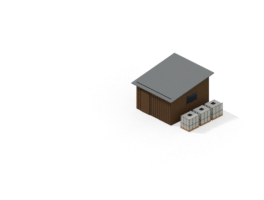
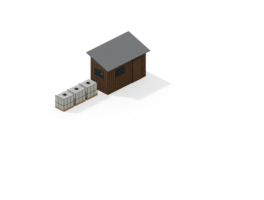
Pole: bouda vedle cesty na trave, cesta volna pro auta; V3S v17 fotka sedi/stoji
Hrac: bouda stala v ceste, kudy pojedou auta. Kulna (uzsi, 4,4 x 2 m)
a nadrze stoji na trave u severozapadniho okraje pate dlazdice cesty,
ujeta cesta a oba pruhy jsou volne. Novy obrazek bouda 4x i 8x,
nahledy, README a vzkaz pro hru. V3S v17: kontrolni fotka plnych aut,
za jizdy studentky sedi, pri nakladani stoji.

Claude-Session: https://claude.ai/code/session_01P6zYdmMEQjTTZJyV6Qb8Ch

Changed region(s): [[0.1818, 0.15, 0.8485, 0.66]]

diff --git a/pole/render_dlazdice.py b/pole/render_dlazdice.py
@@ -10,7 +10,8 @@
 # - zaklady (neprusvitne presne v kosoctverci policka): pole marihuany (zem se zahony), pole brambor (hrebeny), cesta
 #   (trava a polni cesta podel x);
 # - prikladaci vrstvy (jinde pruhledne, nic nepresahuje pod predni hrany policka, jen nahoru): bouda (kulna a nadrze na
-#   konci cesty), male a vzrostle kytky (i se stinem na zem), holky u okraju cesty.
+#   konci cesty vedle ni, na trave u severozapadniho okraje), male a vzrostle kytky (i se stinem na zem), holky u okraju
+#   cesty.
 # Cesta prostredkem pole (hrac: "takhle bude cesta prostredkem pole, vzor je overlaping titles z toho grf", "normalne tam
 # bude tvoje nynejsi cesta a pod ni postavim silnici pro auta, proto potrebuju aby ta cesta v marihuanovy plantazi byla
 # overlaping, ze tam je obrazek ale muzu pod obrazkem stavet"): obrazek cesty je plny, ve hre se kresli jako prekryvajici
@@ -181,28 +182,36 @@ if POLE == "marihuana":
         for k in (-0.75, 0.75):
             kvadr("cesta", M["kolej"], OD, DO, pr + k - 0.24, pr + k + 0.24, 0.0, 0.013)
     kvadr("cesta", M["trava"], OD, DO, YT - 0.6, YT + 0.6, 0.0, 0.02)
-    # bouda na konci cesty (severovychodni konec dlazdice, x maly), napric cestou, dvere k jihozapadu na cestu, okno
-    # k jihovychodu, jako kulna na stare plantazi: drevena, pultova plechova strecha; vedle tri IBC nadrze na vodu.
-    # Do pulky dlazdice (x do 7,4) nesaha: na slepem konci silnice auta otaci uprostred dlazdice.
-    KX0, KX1, KY0, KY1 = 0.5, 4.9, YT - 2.0, YT + 2.0
-    ZK, ZK1 = 2.5, 3.1
+    # bouda na konci cesty, vedle ni (hrac 3. 10.: "postavil jsi boudu do cesty na marihuanovy plantazi : ) tam budou
+    # jezdit auta prece"): stoji na trave u severozapadniho okraje dlazdice (y do 2,5 m, cesta zacina na 2,52 m)
+    # u severovychodniho konce (x maly), ujeta cesta i oba pruhy aut zustavaji volne. Drevena kulna s pultovou
+    # plechovou strechou spadajici k ceste, dvere a okno na cestu (k jihovychodu), okno k jihozapadu; vedle ni
+    # k jihozapadu tri IBC nadrze na vodu, take na trave. Severozapadni strana je za auty, auta ji ve hre prekresli
+    # spravne (prekryvajici obrazek se kresli pod auty).
+    KX0, KX1, KY0, KY1 = 0.6, 5.0, 0.2, 2.2
+    ZK, ZK1 = 2.5, 3.1                             # stena u cesty a vzadu
     kvadr("bouda", M["prkna"], KX0, KX1, KY0, KY1, 0.0, ZK)
-    mnohostena("bouda", M["prkna"], [(KX0, KY0, ZK), (KX1, KY0, ZK), (KX1, KY1, ZK), (KX0, KY1, ZK), (KX0, KY0, ZK1), (KX0, KY1, ZK1)],
-               [(0, 1, 2, 3), (0, 4, 1), (3, 2, 5), (0, 3, 5, 4)])
-    O = 0.3
-    mnohostena("bouda", M["plech"], [(KX0 - O, KY0 - O, ZK1 + 0.08), (KX0 - O, KY1 + O, ZK1 + 0.08), (KX1 + O, KY1 + O, ZK - 0.12),
-                                     (KX1 + O, KY0 - O, ZK - 0.12), (KX0 - O, KY0 - O, ZK1 + 0.14), (KX0 - O, KY1 + O, ZK1 + 0.14),
-                                     (KX1 + O, KY1 + O, ZK - 0.06), (KX1 + O, KY0 - O, ZK - 0.06)],
+    mnohostena("bouda", M["prkna"], [(KX0, KY0, ZK), (KX1, KY0, ZK), (KX1, KY1, ZK), (KX0, KY1, ZK), (KX0, KY0, ZK1), (KX1, KY0, ZK1)],
+               [(0, 1, 2, 3), (0, 4, 5, 1), (3, 2, 5, 4), (0, 3, 4), (1, 5, 2)])
+    O = 0.25
+    mnohostena("bouda", M["plech"], [(KX0 - O, KY0 - O, ZK1 + 0.08), (KX1 + O, KY0 - O, ZK1 + 0.08), (KX1 + O, KY1 + O, ZK - 0.12),
+                                     (KX0 - O, KY1 + O, ZK - 0.12), (KX0 - O, KY0 - O, ZK1 + 0.14), (KX1 + O, KY0 - O, ZK1 + 0.14),
+                                     (KX1 + O, KY1 + O, ZK - 0.06), (KX0 - O, KY1 + O, ZK - 0.06)],
                [(0, 3, 2, 1), (4, 5, 6, 7), (0, 1, 5, 4), (1, 2, 6, 5), (2, 3, 7, 6), (3, 0, 4, 7)])
-    for k in range(int((KY1 - KY0) / 0.22)):
+    for k in range(int((KX1 - KX0) / 0.22)):      # spary prken na stene u cesty
+        x = KX0 + 0.22 * (k + 1)
+        kvadr("bouda", M["tmava"], x - 0.012, x + 0.012, KY1, KY1 + 0.012, 0.05, ZK - 0.05)
+    for k in range(int((KY1 - KY0) / 0.22)):      # a na jihozapadni stene
         y = KY0 + 0.22 * (k + 1)
         kvadr("bouda", M["tmava"], KX1, KX1 + 0.012, y - 0.012, y + 0.012, 0.05, ZK - 0.05)
-    kvadr("bouda", M["tmava"], KX1, KX1 + 0.02, KY0 + 0.5, KY0 + 1.6, 0.0, 2.1)
-    kvadr("bouda", M["prkna"], KX1 + 0.02, KX1 + 0.05, KY0 + 0.55, KY0 + 1.55, 0.02, 2.05)
-    kvadr("bouda", M["sklo"], KX0 + 1.4, KX0 + 2.6, KY1, KY1 + 0.02, 1.3, 2.0)
-    kvadr("bouda", M["prkna"], KX0 + 1.35, KX0 + 2.65, KY1, KY1 + 0.05, 1.25, 1.3)
+    kvadr("bouda", M["tmava"], KX0 + 0.5, KX0 + 1.6, KY1, KY1 + 0.02, 0.0, 2.1)            # dvere na cestu
+    kvadr("bouda", M["prkna"], KX0 + 0.55, KX0 + 1.55, KY1 + 0.02, KY1 + 0.05, 0.02, 2.05)
+    kvadr("bouda", M["sklo"], KX0 + 2.5, KX0 + 3.5, KY1, KY1 + 0.02, 1.3, 2.0)              # okno na cestu
+    kvadr("bouda", M["prkna"], KX0 + 2.45, KX0 + 3.55, KY1, KY1 + 0.05, 1.25, 1.3)
+    kvadr("bouda", M["sklo"], KX1, KX1 + 0.02, KY0 + 0.5, KY0 + 1.5, 1.3, 2.0)              # okno k jihozapadu
+    kvadr("bouda", M["prkna"], KX1, KX1 + 0.05, KY0 + 0.45, KY0 + 1.55, 1.25, 1.3)
     for i in range(3):
-        nx0, ny0 = 0.7 + 1.35 * i, KY1 + 0.8
+        nx0, ny0 = KX1 + 0.6 + 1.35 * i, 0.6
         kvadr("bouda", M["paleta"], nx0, nx0 + 1.2, ny0, ny0 + 1.0, 0.0, 0.15)
         kvadr("bouda", M["nadrz"], nx0 + 0.05, nx0 + 1.15, ny0 + 0.05, ny0 + 0.95, 0.15, 1.15)
         for t in (0.0, 0.33, 0.66, 1.0):
@@ -304,7 +313,8 @@ if POLE == "marihuana":
         PO.postav(meshe, Matrix.Translation(B(gx, gy, gz)) @ Matrix.Rotation(uhel, 4, 'Z') @ Matrix.Scale(K, 4))
         for o in meshe: do_skupiny(sk, o)
     # u okraju dlazdice cesty: u severozapadniho okraje (y maly) a u jihovychodniho (y velky), kazda strana zvlast;
-    # stoji na trave u kraje (cesta od 2,5 m); u jihovychodniho jen za boudou a nadrzemi (x > 8)
+    # stoji na trave u kraje (cesta od 2,5 m). Na dlazdici s boudou jen jihovychodni (bouda a nadrze stoji na trave
+    # u severozapadniho okraje)
     do_sceny(PO.nacti_stojici("galaxia_anime_girl", 1.58, "ruce_dolu"), 4.2, 1.6, 0.0, math.radians(60), "holky_sz")
     do_sceny(PO.nacti_stojici("college_girl", 1.62, "ruce_dolu"), 10.4, 1.9, 0.0, math.radians(40), "holky_sz")
     do_sceny(PO.nacti_stojici("character_people_girl_001", 1.68), 9.2, T - 1.7, 0.0, math.radians(15), "holky_jv")
@@ -409,12 +419,12 @@ def chci(jm):
 if POLE == "marihuana":
     if chci("mari_zaklad"): zaklad("mari_zaklad", "mari_zaklad", "pole marihuany bez kytek: zem, 4 zahony podel x")
     if chci("cesta"): zaklad("cesta", "cesta", "polni cesta podel x s travou kolem; ve hre prekryvajici obrazek, pod nim silnice")
-    if chci("bouda"): vrstva_se_stinem("cesta", "bouda", [], "bouda", "kulna a tri nadrze na konci cesty, na policko cesty")
+    if chci("bouda"): vrstva_se_stinem("cesta", "bouda", [], "bouda", "kulna a tri nadrze na konci cesty vedle ni, na trave u severozapadniho okraje dlazdice cesty; cesta volna")
     if chci("mari_male"):
         vrstva_se_stinem("mari_zaklad", "mari_male", ["mari_male_sousede"], "mari_male", "male kytky (mlade rostliny 1,5 az 2,2 m)")
     if chci("mari_vzrostle"):
         vrstva_se_stinem("mari_zaklad", "mari_vzrostle", ["mari_vzrostle_sousede"], "mari_vzrostle", "vzrostle smrcky 3,8 az 5 m")
-    if chci("holky_sz"): vrstva_holek("cesta", "holky_sz", [], "holky_sz", "dve holky u severozapadniho okraje cesty")
+    if chci("holky_sz"): vrstva_holek("cesta", "holky_sz", [], "holky_sz", "dve holky u severozapadniho okraje cesty (ne na dlazdici s boudou)")
     if chci("holky_jv"): vrstva_holek("cesta", "holky_jv", [], "holky_jv", "dve holky u jihovychodniho okraje cesty (i s boudou)")
 if POLE == "brambory":
     if chci("bram_zaklad"): zaklad("bram_zaklad", "bram_zaklad", "pole brambor bez nate: zem, 20 hrebenu podel x")

diff --git a/pole/README.md b/pole/README.md
@@ -92,8 +92,8 @@ západ (4, 128), jih (132, 192); v 8× 528 × 400 px a všechno dvakrát. Nad se
 | `mari_male` | přikládací: malé kytky (mladé rostliny 1,5 až 2,2 m) |
 | `mari_vzrostle` | přikládací: vzrostlé smrčky 3,8 až 5 m (jako druhá fáze staré plantáže) |
 | `bram_male`, `bram_vzrostle` | přikládací: mladá nať 0,2 až 0,27 m, vzrostlá nať 0,4 až 0,52 m, část kvete |
-| `bouda` | přikládací: kůlna a tři nádrže na konci cesty (na dlaždici cesty, severovýchodní konec, dveře na cestu) |
-| `holky_sz`, `holky_jv` | přikládací: dvě holky u severozápadního, nebo jihovýchodního okraje dlaždice cesty |
+| `bouda` | přikládací: kůlna a tři nádrže na konci cesty, vedle ní na trávě u severozápadního okraje dlaždice cesty (ujetá cesta zůstává volná), dveře na cestu |
+| `holky_sz`, `holky_jv` | přikládací: dvě holky u severozápadního, nebo jihovýchodního okraje dlaždice cesty (na dlaždici s boudou jen `holky_jv`) |
 
 - **Zem** (`*_zaklad`, `cesta`) je neprůhledná přesně v kosočtverci políčka: pixel patří políčku, když v něm leží jeho
   střed. Sousední dlaždice se tak nepřekrývají a nemají mezi sebou díru.
@@ -116,8 +116,23 @@ západ (4, 128), jih (132, 192); v 8× 528 × 400 px a všechno dvakrát. Nad se
 - **Proč je cesta tak široká:** auta ve hře jezdí ve dvou pruzích čtvrt políčka od středu (3,7 m), ujetá cesta je
   proto 9,8 m široká a koleje jsou v pruzích. Holky (hráč: *„holky přikladej jen po stranách u kraje dlaždic cesty
   polem“*) stojí na trávě u kraje, ne v pruzích.
-- **Velikost:** všechny dlaždice marihuany ve 4× mají dohromady asi 135 kB, v 8× asi 475 kB; brambory 140 a 455 kB.
+- **Velikost:** všechny dlaždice marihuany ve 4× mají dohromady asi 130 kB, v 8× asi 460 kB (s boudou vedle cesty);
+  brambory bez cesty a boudy 140 a 455 kB.
 
 Složit znovu: `POLE=marihuana python3 render_dlazdice.py <adresář>` (zem, cesta, bouda, kytky, holky) a
 `POLE=brambory python3 render_dlazdice.py <adresář>`, 8× s `ZIN=8`; `JEN=mari_male,…` jen některé. Náhled celého
 pole: `python3 slozit_pole.py <adresář dlaždic> 4 <výstup>` (`dlazdice/nahled/`).
+
+## Bouda vedle cesty (3. 10. večer)
+
+Hráč: *„postavil jsi boudu do cesty na marihuanový plantaži : ) tam budou jezdit auta přece : )“*.
+
+- Kůlna stála napříč ujetou cestou na konci a nádrže v jihovýchodním pruhu, auta by jezdila skrz.
+- Teď stojí kůlna i tři nádrže na trávě u severozápadního okraje páté dlaždice cesty, pořád na konci cesty
+  (u severovýchodního konce). Ujetá cesta a oba pruhy aut jsou volné po celé délce, silnici jde postavit i přes pátou
+  dlaždici. Kůlna je užší (4,4 × 2 m), aby se na trávu vešla, dveře a okno má na cestu, střecha spadá k cestě.
+- Proč na severozápadní straně: ta je za auty. Překrývající obrázek se ve hře kreslí pod auty, takže auto jedoucí
+  kolem kůlnu správně zakryje. Na jihovýchodní straně by auto za kůlnou bylo nakreslené přes ni.
+- Na dlaždici s boudou jdou jen holky `holky_jv` (u jihovýchodního okraje). `holky_sz` stojí na trávě, kde je
+  teď kůlna.
+- Změnil se jen obrázek `bouda` (4× i 8×) a náhledy, ostatní dlaždice jsou stejné.

diff --git a/hra/zarovnani-budov/ODPOVED-PRO-HRU.md b/hra/zarovnani-budov/ODPOVED-PRO-HRU.md
@@ -227,7 +227,7 @@ a přiložime boudu. takhle bude mít pole tři fáze, bez kytek, s malýma kytk
 - **Zem** (neprůhledná přesně v kosočtverci políčka, sousední dlaždice se nepřekrývají): `mari_zaklad` (pole
   marihuany bez kytek), `bram_zaklad` (pole brambor bez natě), `cesta` (polní cesta podél x).
 - **Přikládací vrstvy** (jinde průhledné, nic nepřečuhuje pod přední hrany, jen nahoru): `mari_male`, `mari_vzrostle`,
-  `bram_male`, `bram_vzrostle`, `bouda` (kůlna a nádrže na konci cesty, kreslí se na dlaždici cesty), `holky_sz`
+  `bram_male`, `bram_vzrostle`, `bouda` (kůlna a nádrže na konci cesty vedle ní, kreslí se na dlaždici cesty), `holky_sz`
   a `holky_jv` (dvě holky u severozápadního, nebo jihovýchodního okraje dlaždice cesty).
 - **Fáze:** 1 jen zem, 2 zem a malé kytky, 3 zem a vzrostlé smrčky. Dlaždice na sebe navazují (záhony podél x přes celé
   políčko, rostliny v každém políčku na stejném místě), takže stačí jedna dlaždice na každý druh a opakuje se.
@@ -253,8 +253,7 @@ silnici.
   zůstane volné a dá se na něm stavět silnice. Auta a zastávka se kreslí nad tím obrázkem.
 - **Pro plantáž:** obrázek `cesta` patří dlaždici pole vedle řádku cesty (zem prázdného pole je pod kytkami vždycky,
   takže to platí ve všech fázích) a kreslí se posunutý o políčko přes řádek cesty. Řádek cesty zůstane volný pro
-  hráčovu silnici. Bouda na páté dlaždici sahá jen do půlky políčka na konci cesty (na slepém konci auta otáčejí
-  uprostřed).
+  hráčovu silnici. Bouda stojí od 3. 10. večer vedle cesty, ne na ní (viz oddíl Bouda vedle cesty níž).
 - **Šířka cesty:** auta jezdí ve dvou pruzích čtvrt políčka od středu (3,7 m), ujetá cesta je proto 9,8 m a koleje
   jsou v pruzích, tráva 2,5 m po krajích. Holky (hráč: *„holky přikladej jen po stranách u kraje dlaždic cesty
   polem“*) stojí na trávě u kraje, ne v pruzích.
@@ -273,3 +272,14 @@ nezapomenu mu to říct všechno.“* Plantáž tedy dostane limit 10 políček 
 Hráč: *„nápis roztáhni přes celou ceduli a zvýrazni ho ať je vidět, jiný odstín cedule a nápisu“*. Deska je tmavá,
 písmo světle zlaté přes celou desku. **Změnily se všechny obrázky sochy** (`socha/socha_*_zin4.png`, `…_zin8.png`,
 i s postavami). Rohy a velikost stejné, prosím rozkrájet znovu.
+
+## Bouda vedle cesty (3. 10. večer)
+
+Hráč: *„postavil jsi boudu do cesty na marihuanový plantaži : ) tam budou jezdit auta přece : )“*.
+
+- **Změnil se obrázek `pole/dlazdice/bouda_zin4.png` a `bouda_zin8.png`** (rám a rohy stejné), prosím rozkrájet znovu.
+- Kůlna a tři nádrže stojí na trávě u severozápadního okraje páté dlaždice cesty (2,5 m pás trávy), pořád na konci
+  cesty. Ujetá cesta a oba pruhy jsou volné po celé délce řádku, takže hráč může silnici postavit i přes pátou dlaždici.
+- Je to na severozápadní straně, za auty: překrývající obrázek se kreslí pod auty, auto jedoucí kolem ho tedy zakryje
+  správně.
+- Na dlaždici s boudou jen holky `holky_jv`. Holky `holky_sz` stojí na stejné trávě jako kůlna.

diff --git a/v3s/README.md b/v3s/README.md
@@ -41,7 +41,11 @@ Co je nové:
     pivem, chmelem, uhlím, vodou, obilím, ropou, ocelí, kravičkami a kyselinou, u malé i u BRÝLÍ; čumák BRÝLÍ má 5
     (vlastnost auta, callback ho nemění);
   - fotka aut zastavených při nakládání s jedinou studentkou v každém autě: ve v17 jsou holky na korbě všech aut, ve
-    v16 na žádném (kromě BRÝLÍ Tatry, kde je 1 ze 2 polovina), `kontrola/hra_nakladani_v17.png`.
+    v16 na žádném (kromě BRÝLÍ Tatry, kde je 1 ze 2 polovina), `kontrola/hra_nakladani_v17.png`. Auta na té fotce
+    stojí na silnici, ne v zastávce: zkušební příkaz je zastaví a přepne do nakládání, aby šel vyfotit obrázek „na
+    zastávce“;
+  - plná auta za jízdy a při nakládání (`kontrola/hra_sedi_stoji_v17.png`): za jízdy studentky sedí na lavicích jako
+    dosud, stojí jen při nakládání a vykládání.
 
 ## Verze 16 (2. 10. odpoledne): studentky v přiblížení 8×, College Girl má ruce
 
